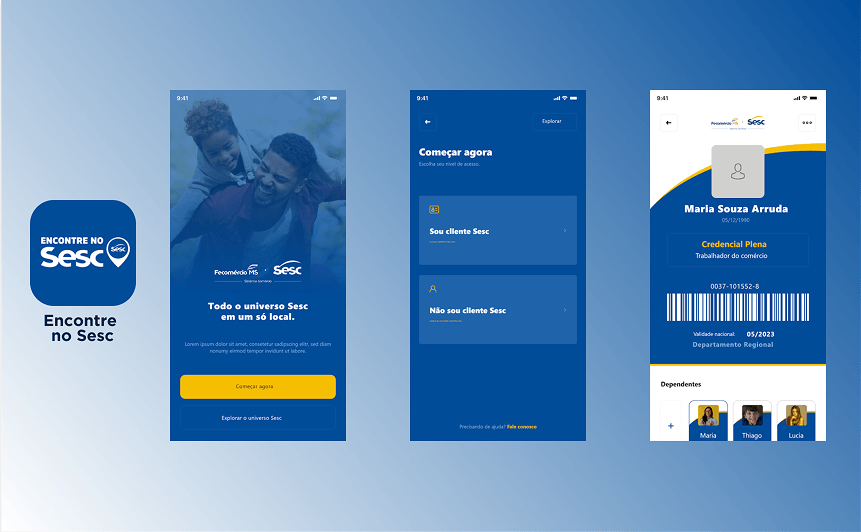
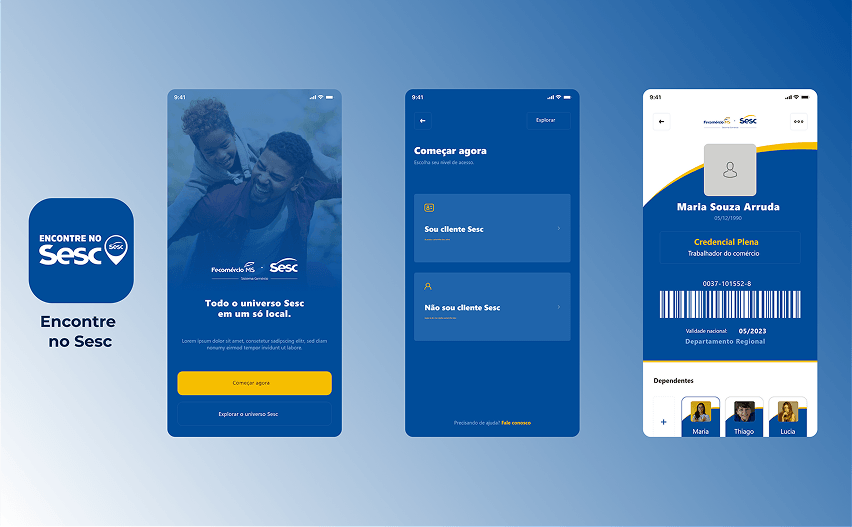
feat: adiciona gran questões nos projetos; ajusta sesc; ajusta copy das experiências e projetos; correção de bugs

diff --git a/src/helpers/experienceMock.ts b/src/helpers/experienceMock.ts
@@ -1,4 +1,5 @@
 import { IExperience } from '@/interfaces/api/experience';
+
 import jeraBanner from '@/assets/images/jera_banner.jpg';
 import granBanner from '@/assets/images/gran_banner.png';
 
@@ -13,40 +14,26 @@ export const experiencesMock: IExperience[] = [
     bannerUrl: jeraBanner,
     description: {
       'pt-BR':
-        'Desenvolvimento multiplataformas (Android e iOS) utilizando Flutter. MVVM/MVVM-C como architecture pattern; Consumo de APIs RESTful com Dio; Implementação de serviços do Firebase como: Messaging, Remote Config, Firebase Events, Crashlytics, Analytics e App Distribution; Comunicação com código nativo (Kotlin e Swift) por meio de Method Channels e Platform Views; Permanência de dados do usuário por meio do Shared Preferencese, SQFlite e armazenamento de sessão com Flutter Secure Storage; Navegação e tratamento de Deeplinks feitos com GoRouter; Injeção de dependências por meio do Service Locator e a biblioteca GetIt; Animações dinâmicas com a biblioteca do Lottie para Flutter; Implementação do Spotify SDK para personalização da experiência do usuário; Integração de WebViews na aplicação para visualização de sites externos e implementação de Javascript Channels para comunicação entre a WebView e o código Flutter; OAuth com bibliotecas para a realização de login com redes como Google e Facebook; Publicação para as lojas de aplicativo, Play Store e App Store; Automação para publicação e atualização do aplicativo na App Store com Bitrise e recursos personalizados de geolocalização com o Google Maps SDK para Flutter.',
+        'Desenvolvimento e manutenção de aplicações mobile multiplataforma para Android e iOS, incluindo os aplicativos oficiais de eventos como Lollapalooza Brasil, Rock in Rio e The Town. Atuação em arquitetura MVVM/MVVM-C, integração com código nativo Kotlin/Swift via Method Channels, persistência local, serviços Firebase, Google Maps e automação de CI/CD com Bitrise, além da publicação dos aplicativos na App Store e Play Store.',
       'en-US':
-        'Cross-platform development (Android and iOS) using Flutter. MVVM/MVVM-C as the architecture pattern; Consumption of RESTful APIs with Dio; Implementation of Firebase services such as: Messaging, Remote Config, Firebase Events, Crashlytics, Analytics, and App Distribution; Communication with native code (Kotlin and Swift) via Method Channels and Platform Views; User data persistence through Shared Preferences, SQFlite, and session storage with Flutter Secure Storage; Navigation and Deeplink handling using GoRouter; Dependency injection via Service Locator and the GetIt library; Dynamic animations using the Lottie library for Flutter; Implementation of the Spotify SDK to personalize the user experience; Integration of WebViews in the application for external website viewing and implementation of Javascript Channels for communication between the WebView and Flutter code; OAuth with libraries for login using networks such as Google and Facebook; Publishing to app stores, Play Store and App Store; Automation for publishing and updating the app on the App Store using Bitrise, and custom geolocation features with the Google Maps SDK for Flutter.',
+        'Development and maintenance of cross-platform mobile applications for Android and iOS, including official apps for events such as Lollapalooza Brasil, Rock in Rio, and The Town. Experience with MVVM/MVVM-C architecture, Kotlin/Swift native integrations through Method Channels, local persistence, Firebase services, Google Maps, and CI/CD automation with Bitrise, as well as app releases on the App Store and Google Play.',
     },
     startDate: '2022-11',
     finishDate: '2025-04',
     skills: [
       'Flutter',
       'Dart',
-      'Dio',
-      'MVVM',
       'MVVM-C',
       'Native Bridge',
-      'Platform Channels',
       'Method Channels',
       'Firebase',
-      'Deeplinks',
-      'Shared Preferences',
-      'Flutter Secure Storage',
-      'SQFlite / SQLite',
-      'Google Maps SDK',
-      'WebView',
-      'Service Locator',
-      'Product Flavors',
-      'Unit Testing',
-      'Bitrise',
-      'Lottie',
       'GoRouter',
-      'Spotify SDK',
-      'OAuth',
-      'Change Notifier',
+      'SQFlite',
+      'Google Maps SDK',
+      'Bitrise',
+      'Product Flavors',
     ],
   },
-
   {
     id: 2,
     company: 'Jera',
@@ -57,30 +44,23 @@ export const experiencesMock: IExperience[] = [
     bannerUrl: jeraBanner,
     description: {
       'pt-BR':
-        'Desenvolvimento Android utilizando Kotlin: Injeção de dependências com Koin e Hilt, Room Database, consumo de RESTful APIs com Retrofit, Android Jetpack, Coroutines, Flows, Jetpack Compose, Configuração do Gradle e Android SDK. Além de aplicação de arquiteturas como MVVM e deploy da aplicação na Play Store.',
+        'Desenvolvimento de aplicações Android nativas utilizando Kotlin e arquitetura MVVM, com implementação de interfaces em Jetpack Compose, consumo de APIs REST, persistência local e processamento assíncrono. Experiência com injeção de dependências utilizando Koin e Hilt, Room Database, Retrofit, Coroutines e Flow, além da publicação de releases na Google Play Store.',
       'en-US':
-        'Android development using Kotlin: Dependency injection with Koin and Hilt, Room Database, consumption of RESTful APIs with Retrofit, Android Jetpack, Coroutines, Flows, Jetpack Compose, Gradle and Android SDK configuration. Additionally, application of architectures such as MVVM and deployment to the Play Store.',
+        'Development of native Android applications using Kotlin and MVVM architecture, with reactive interfaces built with Jetpack Compose, REST API integration, local persistence, and asynchronous processing. Experience with dependency injection using Koin and Hilt, Room Database, Retrofit, Coroutines, and Flow, as well as publishing releases to the Google Play Store.',
     },
     startDate: '2021-07',
     finishDate: '2022-11',
     skills: [
       'Android',
       'Kotlin',
-      'Room',
-      'Android Jetpack',
-      'Android SDK',
-      'MVVM',
+      'Jetpack Compose',
       'Coroutines',
       'Flow',
-      'Proguard R8',
-      'Koin',
       'Hilt',
-      'Dagger',
-      'SQLite',
+      'Koin',
+      'Room',
       'Retrofit',
-      'Gson',
-      'SharedPreferences',
-      'Product Flavors',
+      'MVVM',
     ],
   },
   {
@@ -93,22 +73,19 @@ export const experiencesMock: IExperience[] = [
     bannerUrl: jeraBanner,
     description: {
       'pt-BR':
-        'Desenvolvimento Full Stack paralelo ao Desenvolvimento Mobile com Flutter (realizei os dois ao mesmo tempo). Criação de interfaces utilizando Vue.js com Typescript e desenvolvimento de APIs RESTful com Ruby on Rails; Deploy de aplicações na AWS (S3 e EC2) utilizando Gitlab CI; Desenvolvimento e deploy na AWS de API interna para mensagens automatizadas via Whatsapp, consumindo a Evolution API;',
+        'Atuação Full Stack em paralelo ao desenvolvimento mobile, ampliando minha experiência para aplicações web, APIs e infraestrutura. Desenvolvimento de interfaces web com Vue.js e TypeScript e APIs RESTful com Ruby on Rails, além da configuração e deploy de aplicações na AWS utilizando GitLab CI. Também desenvolvi uma API interna para automação de mensagens via WhatsApp utilizando a Evolution API, cobrindo desde a implementação do serviço até sua disponibilização em ambiente de produção.',
       'en-US':
-        'Full Stack development in parallel with Mobile Development using Flutter (I worked on both simultaneously). UI development using Vue.js with TypeScript and RESTful API development with Ruby on Rails; Application deployment on AWS (S3 and EC2) using GitLab CI; Development and deployment on AWS of an internal API for automated WhatsApp messaging, consuming the Evolution API.',
+        'Full Stack development alongside my mobile work, expanding my experience into web applications, APIs, and infrastructure. Built web interfaces with Vue.js and TypeScript and RESTful APIs with Ruby on Rails, while configuring and deploying applications on AWS using GitLab CI. I also developed an internal API for WhatsApp messaging automation using Evolution API, covering the service implementation through its deployment to production.',
     },
     startDate: '2024-11',
     finishDate: '2025-04',
     skills: [
       'Vue.js',
+      'TypeScript',
       'Ruby on Rails',
-      'AWS',
-      'HTML',
-      'CSS',
-      'Javascript',
-      'Typescript',
-      'SASS',
+      'AWS (S3/EC2)',
       'GitLab CI',
+      'REST APIs',
     ],
   },
   {
@@ -121,20 +98,19 @@ export const experiencesMock: IExperience[] = [
     bannerUrl: granBanner,
     description: {
       'pt-BR':
-        'Atuo no desenvolvimento e manutenção de uma das principais aplicações da empresa, reestruturando funcionalidades legado e implementando novas funcionalidades para o aplicativo mobile com Flutter e Dart, utilizando arquitetura MVC com Clean Architecture e DDD (Domain-Driven Design), implementação de dados em cache com Hive DB, utilização de Design System, gerenciamento de estado e injeção de dependências com GetX e uso de Isolates para processamento pesado de dados em background de forma otimizada.',
+        'Desenvolvimento e evolução da aplicação mobile principal da empresa, atuando na refatoração de código legado e implementação de novas funcionalidades com Flutter e Dart. Aplicação de princípios de Clean Architecture e DDD, gerenciamento de estado e injeção de dependências com GetX, cache local com Hive DB e processamento de tarefas intensivas em background utilizando Flutter Isolates.',
       'en-US':
-        "Currently working on the development and maintenance of one of the company's main applications by restructuring legacy features and implementing new functionality for the mobile app with Flutter and Dart, using an MVC architecture with Clean Architecture and DDD (Domain-Driven Design), implementing data caching with Hive DB, using a Design System, state management and dependency injection with GetX, and leveraging Isolates for optimized heavy data processing in the background.",
+        "Development and evolution of the company's primary mobile application, contributing to legacy code refactoring and the implementation of new features with Flutter and Dart. Applying Clean Architecture and DDD principles, managing state and dependency injection with GetX, implementing local caching with Hive DB, and processing intensive background tasks using Flutter Isolates.",
     },
     startDate: '2025-09',
     skills: [
       'Flutter',
       'Dart',
-      'Flutter Isolates',
-      'Hive DB',
+      'Clean Architecture',
+      'DDD',
       'GetX',
-      'MVC',
-      'BLoC',
-      'SQLite',
+      'Hive DB',
+      'Flutter Isolates',
     ],
   },
 ];

diff --git a/src/helpers/projectsMock.ts b/src/helpers/projectsMock.ts
@@ -5,6 +5,7 @@ import rockinrioBanner from '@/assets/images/projects/rockinrio_banner.webp';
 import rockinriolisboaBanner from '@/assets/images/projects/rirlisboa_banner.png';
 import theTownBanner from '@/assets/images/projects/thetown_banner.webp';
 import sescBanner from '@/assets/images/projects/sesc_banner.png';
+import questoesBanner from '@/assets/images/projects/gran_questoes_banner.png';
 import profileBanner from '@/assets/images/profile-banner.webp';
 
 // Mock temporário até a implementação do backend
@@ -18,8 +19,10 @@ export const projectsMock: IProject[] = [
     appstoreUrl:
       'https://apps.apple.com/br/app/lollapalooza-brasil/id6473182317',
     shortDescription: {
-      'pt-BR': 'O app oficial do #LollaBR dos anos de 2024 e 2025!',
-      'en-US': 'The official #LollaBR app for the years 2024 and 2025!',
+      'pt-BR':
+        'Aplicativo oficial do Lollapalooza Brasil nas edições de 2024 e 2025, desenvolvido em Flutter para Android e iOS.',
+      'en-US':
+        'Official Lollapalooza Brasil app for the 2024 and 2025 editions, developed with Flutter for Android and iOS.',
     },
     bannerUrl: lollapaloozaBanner,
     technologies: [
@@ -36,8 +39,10 @@ export const projectsMock: IProject[] = [
       'https://play.google.com/store/apps/details?id=br.com.rockinrio.app',
     appstoreUrl: 'https://apps.apple.com/br/app/rock-in-rio/id1478184797',
     shortDescription: {
-      'pt-BR': 'O app oficial do Rock in Rio do ano de 2024!',
-      'en-US': 'The official Rock in Rio app for the year 2024!',
+      'pt-BR':
+        'Aplicativo oficial do Rock in Rio 2024, desenvolvido em Flutter para Android e iOS.',
+      'en-US':
+        'Official Rock in Rio 2024 app, developed with Flutter for Android and iOS.',
     },
     bannerUrl: rockinrioBanner,
     technologies: [
@@ -54,8 +59,10 @@ export const projectsMock: IProject[] = [
       'https://play.google.com/store/apps/details?id=br.com.thetown.app',
     appstoreUrl: 'https://apps.apple.com/br/app/the-town/id6446201849',
     shortDescription: {
-      'pt-BR': 'O app oficial do The Town dos anos de 2023 e 2025!',
-      'en-US': 'The official The Town app for the years 2023 and 2025!',
+      'pt-BR':
+        'Aplicativo oficial do The Town nas edições de 2023 e 2025, desenvolvido em Flutter para Android e iOS.',
+      'en-US':
+        'Official The Town app for the 2023 and 2025 editions, developed with Flutter for Android and iOS.',
     },
     bannerUrl: theTownBanner,
     technologies: [
@@ -73,8 +80,10 @@ export const projectsMock: IProject[] = [
     appstoreUrl:
       'https://apps.apple.com/br/app/rock-in-rio-lisboa/id1505341928',
     shortDescription: {
-      'pt-BR': 'O app oficial do Rock in Rio Lisboa do ano de 2024!',
-      'en-US': 'The official Rock in Rio Lisboa app for the year 2024!',
+      'pt-BR':
+        'Aplicativo oficial do Rock in Rio Lisboa 2024, desenvolvido em Flutter para Android e iOS.',
+      'en-US':
+        'Official Rock in Rio Lisboa 2024 app, developed with Flutter for Android and iOS.',
     },
     bannerUrl: rockinriolisboaBanner,
     technologies: [
@@ -92,9 +101,9 @@ export const projectsMock: IProject[] = [
     appstoreUrl: 'https://apps.apple.com/br/app/ecx-pay/id1631237943',
     shortDescription: {
       'pt-BR':
-        'O app do melhor cartão multibenefícios do mercado, aceito em milhões de estabelecimentos pelo o mundo.',
+        'Aplicativo da plataforma ECX Pay para gerenciamento de cartões multibenefícios, com recursos voltados à experiência dos usuários.',
       'en-US':
-        'The app for the best multi-benefit card on the market, accepted in millions of establishments around the world.',
+        'ECX Pay mobile application for multi-benefit card management, with features focused on the user experience.',
     },
     bannerUrl: ecxpayBanner,
     technologies: [
@@ -111,9 +120,9 @@ export const projectsMock: IProject[] = [
     appstoreUrl: 'https://apps.apple.com/us/app/encontre-no-sesc/id6443436934',
     shortDescription: {
       'pt-BR':
-        'Com o app Encontre no Sesc, você acessa sua credencial digital, confere eventos e programações das unidades, localiza comércios parceiros e aproveita descontos exclusivos.',
+        'Aplicativo que centraliza credencial digital, programação de eventos, localização de unidades e benefícios do Sesc em uma única experiência mobile.',
       'en-US':
-        'With the Encontre no Sesc app, you can access your digital ID, check events and schedules at Sesc units, locate partner businesses, and enjoy exclusive discounts.',
+        'App that brings together digital credentials, event schedules, unit locations, and Sesc benefits in a single mobile experience.',
     },
     bannerUrl: sescBanner,
     technologies: [
@@ -123,11 +132,35 @@ export const projectsMock: IProject[] = [
   },
   {
     id: 7,
+    title: 'Gran Cursos Questões',
+    author: 'Gran',
+    shortDescription: {
+      'pt-BR':
+        'Aplicativo mobile do Gran Cursos voltado à preparação para concursos, com resolução de questões, simulados, videoaulas e acompanhamento de desempenho, desenvolvido em Flutter.',
+      'en-US':
+        'Gran Cursos mobile application focused on exam preparation, featuring question solving, mock exams, video lessons, and performance tracking, developed with Flutter.',
+    },
+    bannerUrl: questoesBanner,
+    playstoreUrl:
+      'https://play.google.com/store/apps/details?id=br.com.grancursosonline.questoes.app',
+    appstoreUrl:
+      'https://apps.apple.com/br/app/gran-cursos-quest%C3%B5es/id1509073519',
+    siteUrl: 'https://questoes.grancursosonline.com.br/',
+    technologies: [
+      { id: 1, name: 'Flutter', iconUrl: '' },
+      { id: 2, name: 'Dart', iconUrl: '' },
+      { id: 3, name: 'SQFlite', iconUrl: '' },
+    ],
+  },
+  {
+    id: 8,
     title: 'Portfolio',
     author: 'Nicolas Yamada',
     shortDescription: {
-      'pt-BR': 'Você está aqui! :)',
-      'en-US': 'You are here! :)',
+      'pt-BR':
+        'Você está aqui! :) Meu portfólio pessoal, desenvolvido em Vue.js e TypeScript com CI/CD automatizado via GitHub Actions.',
+      'en-US':
+        'You are here! :) My personal portfolio, developed with Vue.js and TypeScript with automated CI/CD via GitHub Actions.',
     },
     repoUrl: 'https://github.com/kenjiroyamada16/portfolio-front',
     siteUrl: 'https://nicyamada.com',

diff --git a/src/components/ExperienceItem.vue b/src/components/ExperienceItem.vue
@@ -147,11 +147,11 @@
     const parsedFinishDate = finishDate ? Date.parse(finishDate) : Date.now();
 
     const differenceInMilliseconds = parsedFinishDate - parsedStartDate;
-    let differenceInDays = Math.round(
+    let differenceInDays = Math.floor(
       differenceInMilliseconds / (1000 * 60 * 60 * 24),
     );
-    let differenceInMonths = Math.round(differenceInDays / 30);
-    const differenceInYears = Math.round(differenceInMonths / 12);
+    let differenceInMonths = Math.floor(differenceInDays / 30);
+    const differenceInYears = Math.floor(differenceInMonths / 12);
 
     let initialText = '';
 
@@ -160,7 +160,11 @@
       differenceInYears != Infinity &&
       differenceInYears >= 1
     ) {
-      initialText += `${t('date_time.count_years', differenceInYears)} `;
+      initialText += `${t('date_time.count_years', differenceInYears).replace(' ', '_')} `;
+    }
+
+    if (differenceInYears >= 1) {
+      differenceInMonths = differenceInMonths - 12 * differenceInYears;
     }
 
     if (
@@ -168,11 +172,7 @@
       differenceInMonths != Infinity &&
       differenceInMonths >= 1
     ) {
-      if (differenceInYears >= 1) {
-        differenceInMonths = differenceInMonths - 12 * differenceInYears;
-      }
-
-      initialText += `${t('date_time.count_months', differenceInMonths)} `;
+      initialText += `${t('date_time.count_months', differenceInMonths).replace(' ', '_')} `;
     }
 
     let displayText = '';

diff --git a/src/components/sections/AboutSection.vue b/src/components/sections/AboutSection.vue
@@ -70,21 +70,6 @@
               )
             }}</span>
           </div>
-          <div class="language-item">
-            <span class="label">{{
-              $t(
-                'features.portfolio.sections.about.languages_section.languages.japanese',
-              )
-            }}</span>
-            <div class="progress-bar-container">
-              <div class="progress-bar basic"></div>
-            </div>
-            <span class="level">{{
-              $t(
-                'features.portfolio.sections.about.languages_section.labels.basic',
-              )
-            }}</span>
-          </div>
         </div>
       </div>
     </div>
